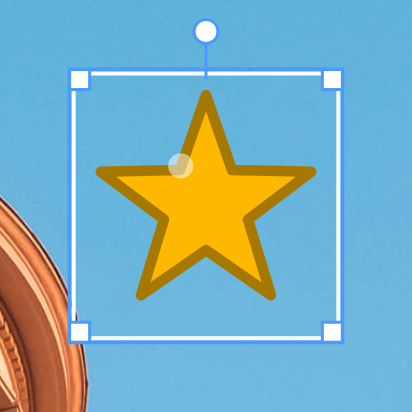
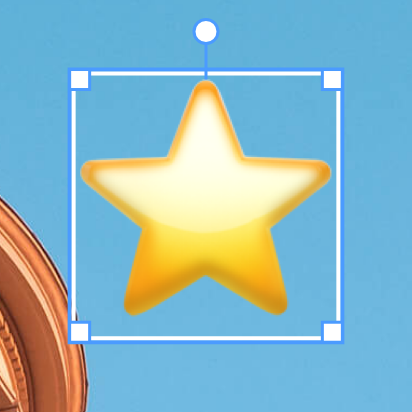
Tell the drawing story on the website and refresh every capture

Changed region(s): [[0.1748, 0.1748, 0.8155, 0.7864]]

diff --git a/website/index.html b/website/index.html
@@ -366,6 +366,10 @@
 									open head, so they point at what they mean
 								</li>
 								<li>
+									Freehand drawing whose strokes are real layers, with
+									a guided keyboard route to a curved line
+								</li>
+								<li>
 									Redactions that pixelate or blur for real, in four
 									strengths, destructive in the exported file
 								</li>
@@ -700,7 +704,7 @@
 									class="window"
 									src="screenshots/frame-panel.png"
 									width="560"
-									height="1050"
+									height="962"
 									style="max-width: min(100%, 280px)"
 									alt="The Frame panel: cards for None, Mat, Bevel and Line, with Mat selected and carrying a ring, a bold label and a check badge; below them a frame colour input, a checkbox reading Draw the frame over the annotations, and sliders for frame size at 4 percent and frame offset at 0 percent."
 								/>
@@ -771,8 +775,8 @@
 							</p>
 							<ul class="tick-list">
 								<li>
-									Text, shapes, arrows, redactions, emoji, and a
-									picture of your own
+									Text, shapes, arrows, strokes, redactions, emoji, and
+									a picture of your own
 								</li>
 								<li>Handles for the pointer, a panel for the keyboard</li>
 								<li>
@@ -788,10 +792,90 @@
 									width="1816"
 									height="1374"
 									style="max-width: min(100%, 908px)"
-								alt="The stage with five annotations: a blue rectangle, a star sticker selected with resize and rotate handles, a blue arrow pointing at a pixelated redaction over the clock, and the words Golden hour in white."
+								alt="The stage with five annotations: a blue rectangle, a star emoji selected with resize and rotate handles, a blue arrow pointing at a pixelated redaction over the clock, and the words Golden hour in white."
 							/>
 							<figcaption>
 								Five annotations on one stage, each a node of its own.
+							</figcaption>
+						</figure>
+					</div>
+
+					<div class="showcase showcase-reverse">
+						<div class="showcase-text">
+							<h3>Drawing, without giving up the contract</h3>
+							<p>
+								Freehand input is the one thing WCAG itself exempts from
+								the keyboard rule, because a gesture is defined by the
+								path of a hand. What was never exempt is what the gesture
+								leaves behind. In most editors that is dead ink; here it
+								is a stroke: a handful of anchor points with a colour, a
+								thickness and a line style, named in the layers list,
+								moved with the arrow keys, edited after the fact and
+								exported like everything else.
+							</p>
+							<p>
+								And the keyboard does not just inherit the result, it has
+								a route of its own: activate Draw with Enter and a guided
+								line starts at the centre of the crop. The arrow keys aim
+								the end and Enter sets it; the arrow keys then bend the
+								middle, curving the line in whatever direction they move,
+								and Enter finishes. Every stage is announced as it
+								arrives, Backspace steps back, Escape abandons.
+							</p>
+							<ul class="tick-list">
+								<li>
+									A drag draws freehand; clicks place pen points; both
+									end in the same editable stroke
+								</li>
+								<li>
+									Curved lines by keyboard alone: aim the end, bend the
+									middle, three announced stages
+								</li>
+								<li>
+									Rectangles and circles can dress in a hand-drawn
+									style, a stored seed instead of a gesture
+								</li>
+							</ul>
+						</div>
+						<figure class="figure reveal">
+							<img
+								class="window"
+								src="screenshots/draw-keyboard.png"
+								width="1120"
+								height="680"
+								style="max-width: min(100%, 560px)"
+								alt="Mid-drawing on the stage: a blue curved line between two circular anchors, with a haloed crosshair cursor bending its middle upward."
+							/>
+							<figcaption>
+								The guided line, mid-bend: anchors at both ends, the
+								crosshair holding the middle.
+							</figcaption>
+						</figure>
+					</div>
+
+					<div class="showcase">
+						<div class="showcase-text">
+							<h3>Strokes you can hear and revisit</h3>
+							<p>
+								A finished stroke announces itself, lands selected, and
+								stays honest afterwards: its curve is a reading of its
+								points, so Smooth can become Straight later without
+								redrawing anything, and a freehand gesture is simplified
+								to the same anchors the pen would have placed.
+							</p>
+						</div>
+						<figure class="figure reveal">
+							<img
+								class="window"
+								src="screenshots/drawing.jpg"
+								width="1816"
+								height="1374"
+								style="max-width: min(100%, 908px)"
+								alt="The stage with three drawn annotations: a freehand wave along the balustrade, a check mark drawn with the pen, and a rectangle in the wobbly hand-drawn style."
+							/>
+							<figcaption>
+								A freehand wave, a pen check mark, and the hand-drawn
+								style on a rectangle.
 							</figcaption>
 						</figure>
 					</div>
@@ -902,9 +986,9 @@
 									class="window"
 									src="screenshots/layers.png"
 									width="560"
-									height="932"
+									height="994"
 									style="max-width: min(100%, 280px)"
-									alt="The Layers panel listing a star sticker, a text layer, a redaction and a rectangle, with the star sticker selected and its colour, position, opacity, size and rotation below in a two column grid."
+									alt="The Layers panel listing a star emoji, a text layer, a redaction and a rectangle, with the star emoji selected and its position, size, rotation and opacity below in a two column grid."
 								/>
 							</div>
 						</figure>
@@ -1071,7 +1155,7 @@
 									width="412"
 									height="412"
 									style="max-width: min(100%, 206px)"
-									alt="A star sticker with a single thin selection ring and square resize handles."
+									alt="A star emoji with a single thin selection ring and square resize handles."
 								/>
 								<figcaption>Selected with the pointer</figcaption>
 							</figure>
@@ -1082,7 +1166,7 @@
 									width="412"
 									height="412"
 									style="max-width: min(100%, 206px)"
-									alt="The same star sticker with a thicker two-tone focus ring, white inside and blue outside."
+									alt="The same star emoji with a thicker two-tone focus ring, white inside and blue outside."
 								/>
 								<figcaption>Reached with the keyboard</figcaption>
 							</figure>
@@ -1313,13 +1397,12 @@
 								class="window"
 								src="screenshots/mobile-annotate.png"
 									width="800"
-									height="430"
+									height="730"
 									style="max-width: min(100%, 400px)"
-								alt="The Annotate panel on a narrow screen: five buttons, with the Add sticker menu open below them showing the ten stickers as a grid of two rows of five drawings."
+								alt="The Annotate panel on a narrow screen: six labelled icon tiles, with the emoji picker open below them showing a search field over a grid of emoji."
 							/>
 							<figcaption>
-								Ten stickers as a grid behind one button, rather than ten
-								buttons
+								Every emoji behind one tile, searched rather than scrolled
 							</figcaption>
 						</figure>
 					</div>
